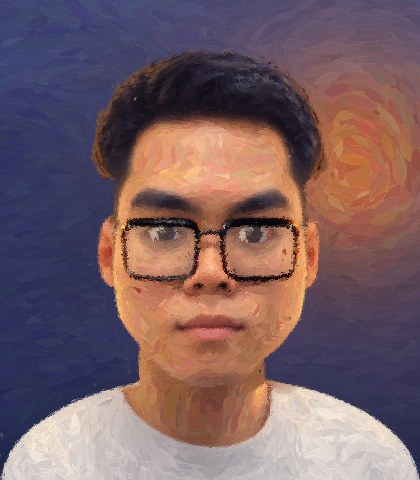
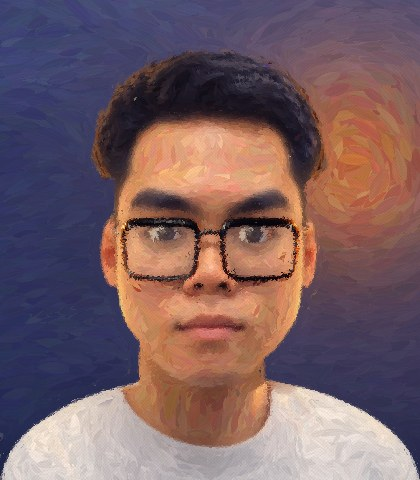
Add files via upload

Changed region(s): [[0.65, 0.4375, 0.7738, 0.7188], [0.2167, 0.4375, 0.3405, 0.6875], [0.3095, 0.6875, 0.3405, 0.7188]]

diff --git a/assets/js/avatar3d.js b/assets/js/avatar3d.js
@@ -278,6 +278,15 @@ function faceZ(x, y) {
     return eyeSocket(x, y, baseFrontZ(x, y) + faceRelief(x, y));
 }
 
+// Slims the cheeks and jaw: the sides of the lower face move in, while the middle of the face (eyes,
+// nose, mouth) stays put and the chin is left alone. Everything is modeled and textured at the
+// unslimmed position, so the portrait gets squeezed along with the shape.
+const CHEEK_SLIM = 0.035;
+function slimOffset(x, y) {
+    const band = smoothstep(0.1, -0.3, y) * smoothstep(-1.45, -1.0, y);
+    return -Math.sign(x) * CHEEK_SLIM * band * smoothstep(0.3, 0.95, Math.abs(x));
+}
+
 // ---------------------------------------------------------------------------------------------
 // Expressions sculpted into the head as morph targets. Each is a displacement of the rest shape;
 // the mouth opens along a seam on the lip line, where the lip vertices are duplicated.
@@ -433,8 +442,9 @@ function buildHeadGeometry(detailed) {
         }
     }
 
+    const shown = verts.map((v) => v.p.clone().setX(v.p.x + slimOffset(v.p.x, v.p.y)));
     const g = new THREE.BufferGeometry();
-    g.setAttribute('position', new THREE.Float32BufferAttribute(verts.flatMap((v) => [v.p.x, v.p.y, v.p.z]), 3));
+    g.setAttribute('position', new THREE.Float32BufferAttribute(shown.flatMap((p) => [p.x, p.y, p.z]), 3));
     g.setIndex(indices);
     g.computeVertexNormals();
     if (!detailed) return g;
@@ -447,7 +457,7 @@ function buildHeadGeometry(detailed) {
     }
     g.setAttribute('color', new THREE.Float32BufferAttribute(colors, 3));
     g.setAttribute('blush', new THREE.Float32BufferAttribute(blush, 1));
-    setPortraitAttribute(g, g.attributes.position.array, g.attributes.normal.array);
+    setPortraitAttribute(g, new Float32Array(verts.flatMap((v) => [v.p.x, v.p.y, v.p.z])), g.attributes.normal.array);
 
     const baseNormals = g.attributes.normal.array;
     const work = new THREE.BufferGeometry();
@@ -458,11 +468,11 @@ function buildHeadGeometry(detailed) {
     g.morphAttributes.normal = [];
     for (const name of HEAD_MORPHS) {
         const delta = [], moved = [];
-        for (const v of verts) {
+        verts.forEach((v, k) => {
             expressionOffset(name, v.p, v.lowerLip, off);
             delta.push(off.x, off.y, off.z);
-            moved.push(v.p.x + off.x, v.p.y + off.y, v.p.z + off.z);
-        }
+            moved.push(shown[k].x + off.x, shown[k].y + off.y, shown[k].z + off.z);
+        });
         work.setAttribute('position', new THREE.Float32BufferAttribute(moved, 3));
         work.computeVertexNormals();
         const n = work.attributes.normal.array, dn = new Float32Array(n.length);
@@ -1315,6 +1325,8 @@ async function init(mounts) {
         projectPortrait(ears[1], 1);   // the ear the portrait shows edge-on wears its mirror image
         [ears[0], shell, strands, ...eyes.flatMap((e) => [e.upper, e.lower]), ...body.group.children].forEach((m) => projectPortrait(m));
     }
+    // The ears follow the slimmed cheeks in (after taking their texture from where they were).
+    for (const ear of ears) ear.position.x += slimOffset(ear.position.x, ear.position.y);
 
     // Clicks are resolved against cheap, static stand-ins rather than the morphing meshes.
     const proxy = (geometry, region, parent) => {
